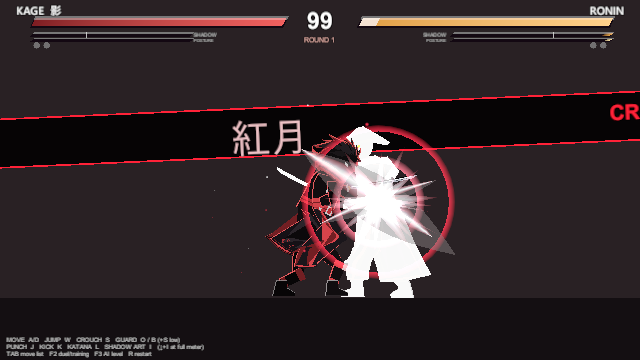
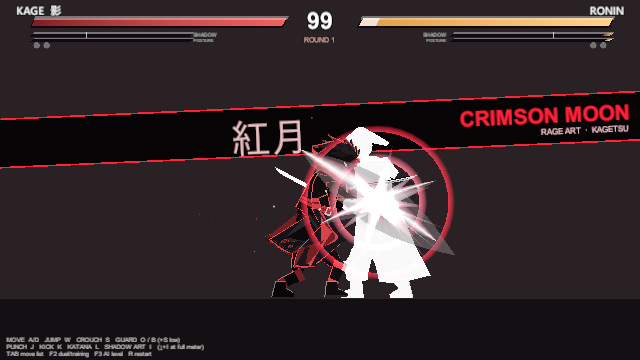
SAN-82: Crescent test checks the hit, review sheets re-rendered with the cut-in name in place

diff --git a/Assets/Kage/Tests/PlayMode/RageArtCrimsonMoonTests.cs b/Assets/Kage/Tests/PlayMode/RageArtCrimsonMoonTests.cs
@@ -149,7 +149,7 @@ namespace Kage.Tests
             f.Run(37);
             Assert.AreEqual(0, f.Events(CombatEventType.RageArt).Count(), "no Down, no rage art");
             Assert.AreEqual("crescent", f.Events(CombatEventType.MoveStarted).Single(e => e.SourceId == "kage").MoveId);
-            Assert.AreEqual(1, f.Ctx.Projectiles.Count);
+            Assert.AreEqual(1, f.Events(CombatEventType.Hit).Count(e => e.MoveId == "crescent"), "the Crescent was thrown and hit");
         }
 
         // ---- the timeline and the damage ----
